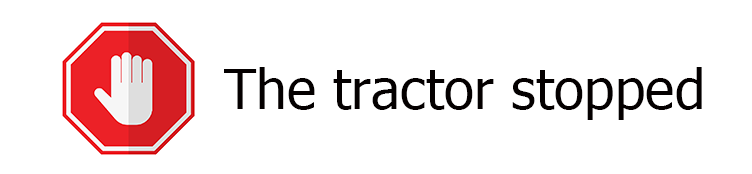
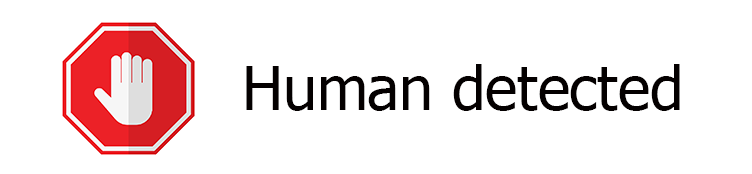
human detected

Changed region(s): [[0.2753, 0.3736, 0.9481, 0.6897]]

diff --git a/intro.py b/intro.py
@@ -1,0 +1,19 @@
+import time
+
+def intro():
+    file = open("tractor.txt", "r")
+    for line in file:
+        print(line,end='')
+        time.sleep(0.05)
+
+    print("\r\nLogin to Sun-Bot via SSH:")
+    user = input("Username: ")
+    passw = input("Password: ")
+    print("Welcome back, " + user)
+    print("\r\n1) Logitech 3.1 megapixel Ip-camera via network(172.16.1.110)")
+    print("2) Built-in Webcam(0) Acer Laptop ap201")
+    print("Number of camera(s): 2")
+    input("Which? 1~2: ")
+
+if __name__ == "__main__":
+    intro()

diff --git a/ipcamera.py b/ipcamera.py
@@ -3,6 +3,9 @@ import face_recognition
 from PIL import Image, ImageFont, ImageDraw, ImageEnhance
 import os,numpy
 import datetime
+from intro import intro
+
+intro()
 
 logo = cv2.imread("logo.png")
 safe = cv2.imread("safe.png")
